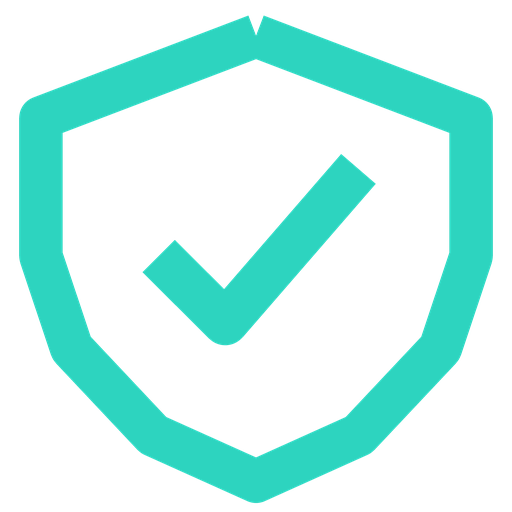
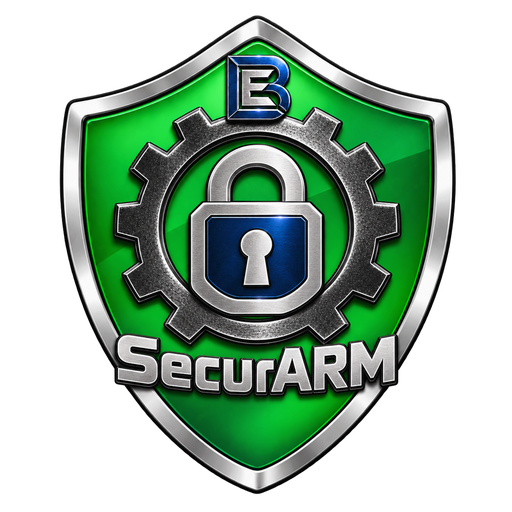
feat: 0.6.2 — фирменный знак SecurARM (щит) в brand/

diff --git a/custom_components/techlan_ops/const.py b/custom_components/techlan_ops/const.py
@@ -30,7 +30,7 @@ PLATFORMS = ["sensor", "binary_sensor", "switch"]
 CONFIG_MINOR_VERSION = 3
 
 # Версия интеграции (синхронизировать с manifest.json).
-INTEGRATION_VERSION = "0.6.1"
+INTEGRATION_VERSION = "0.6.2"
 
 # Идентификатор и параметры родительского устройства.
 PARENT_IDENTIFIER = "arm_ops"

diff --git a/README.md b/README.md
@@ -1,11 +1,11 @@
 # SecurARM
 ![Release](https://img.shields.io/github/v/release/bezuglyy/techlan_ops?label=Release&style=flat-square) ![HACS](https://img.shields.io/badge/HACS-Custom%20Repository-purple?style=flat-square) ![License](https://img.shields.io/github/license/bezuglyy/techlan_ops?style=flat-square) ![HA](https://img.shields.io/badge/HA-2025.1%2B-2ea44f?style=flat-square)
-Кастомная интеграция для [Home Assistant](https://www.home-assistant.io) · версия **0.6.1**.
+Кастомная интеграция для [Home Assistant](https://www.home-assistant.io) · версия **0.6.2**.
 ![icon](custom_components/techlan_ops/brand/icon.png)
 | | |
 |---|---|
 | Домен | `techlan_ops` |
-| Версия | 0.6.1 |
+| Версия | 0.6.2 |
 | Тип | custom integration |
 ## Описание
 Управление охранно-пожарной системой Болид ServerSkif (**SecurARM**). Отображаемое имя интеграции — **SecurARM**; домен `techlan_ops` и `entity_id` не меняются.
@@ -14,6 +14,8 @@
 - Кнопки и действия
 - Сенсоры и мониторинг состояния
 - Переключатели и вкл/выкл устройства
+### Изменения 0.6.2
+- 🖼 **Фирменный знак SecurARM** (щит с шестернёй и замком, логотип автора) в `brand/` — icon/logo + тёмные варианты и `@2x`.
 ### Изменения 0.6.1
 - 🏷 **Переименование в SecurARM:** отображаемое имя интеграции и устройств — **SecurARM** (сервер ОПС SecurARM Server), обновлены логотипы/иконки (`brand/`, вордмарк **SECURARM**).
 - ⚠ Домен `techlan_ops`, `unique_id` и все `entity_id` **не изменены** — история и автоматизации сохраняются.
